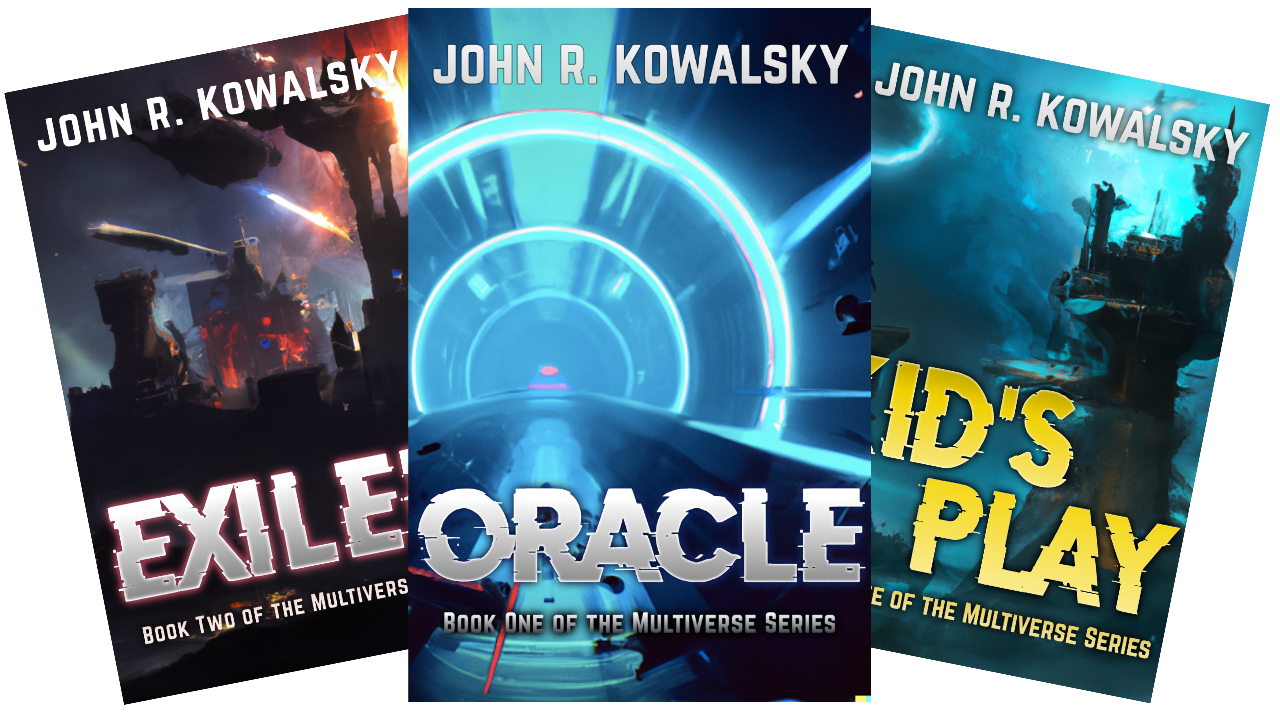
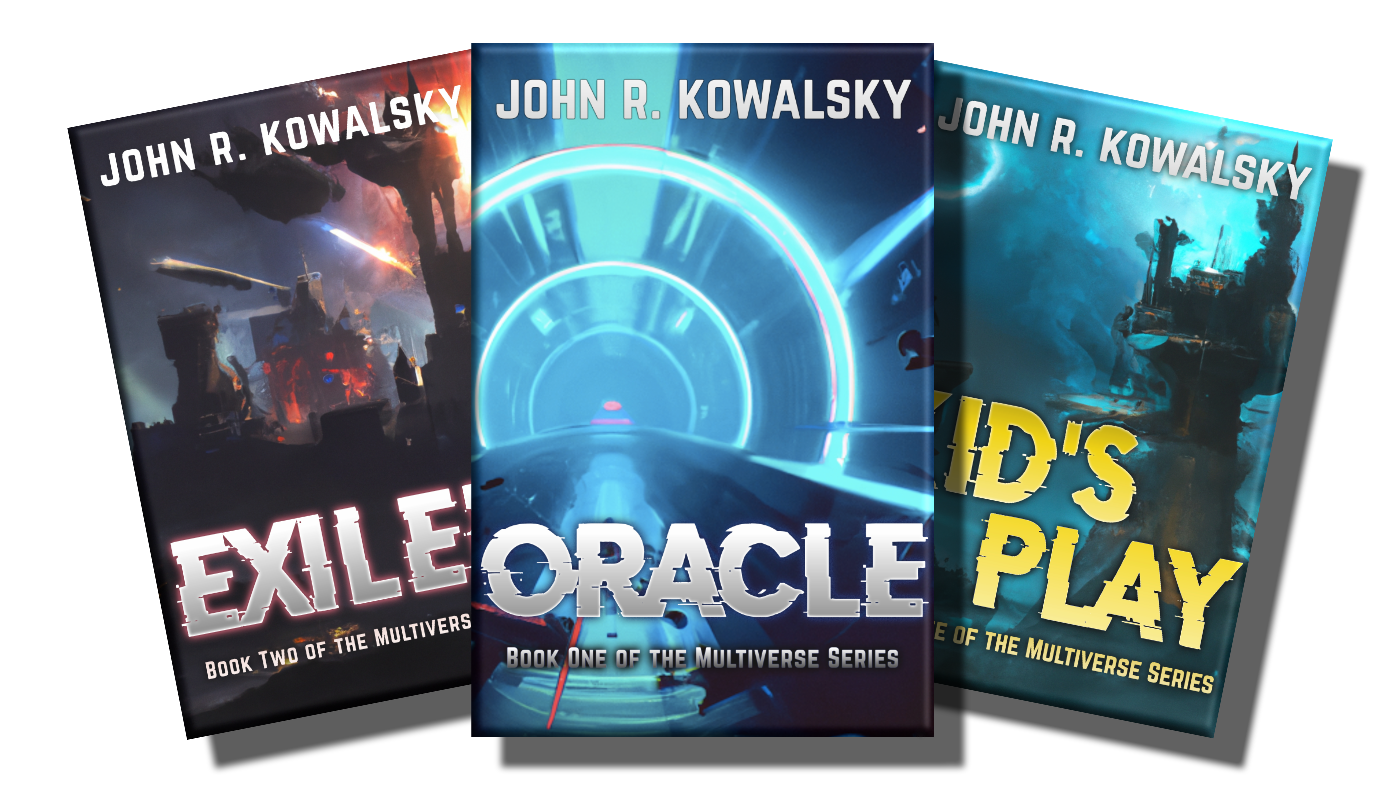
fix hero photo

diff --git a/layouts/partials/hero.html b/layouts/partials/hero.html
@@ -3,7 +3,7 @@
     {{ with resources.GetMatch "img/m_series.png" }}
     <img
       src="{{ .RelPermalink }}"
-      class="max-w-sm sm:max-w-3xl bg-white rounded-lg shadow-2xl"
+      class="max-w-sm sm:max-w-3xl bg-transparent rounded-lg"
       height="{{.Height}}"
       width="{{.Width}}"
     />

diff --git a/assets/css/output.css b/assets/css/output.css
@@ -1521,9 +1521,8 @@ html {
   background-color: var(--fallback-b3,oklch(var(--b3)/var(--tw-bg-opacity)));
 }
 
-.bg-white {
-  --tw-bg-opacity: 1;
-  background-color: rgb(255 255 255 / var(--tw-bg-opacity));
+.bg-transparent {
+  background-color: transparent;
 }
 
 .p-2 {
